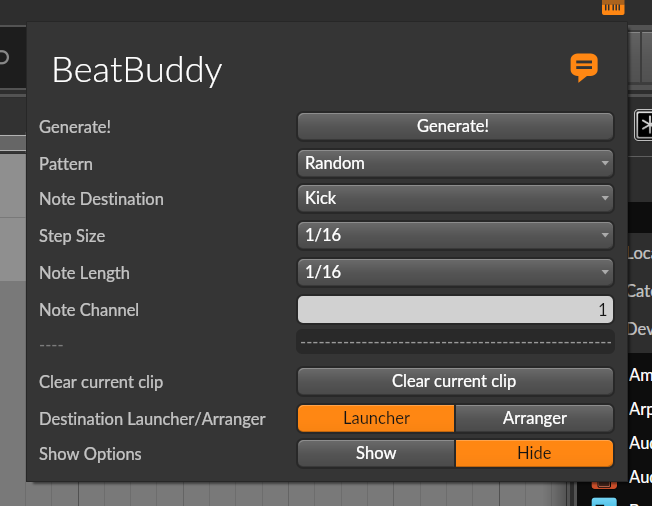
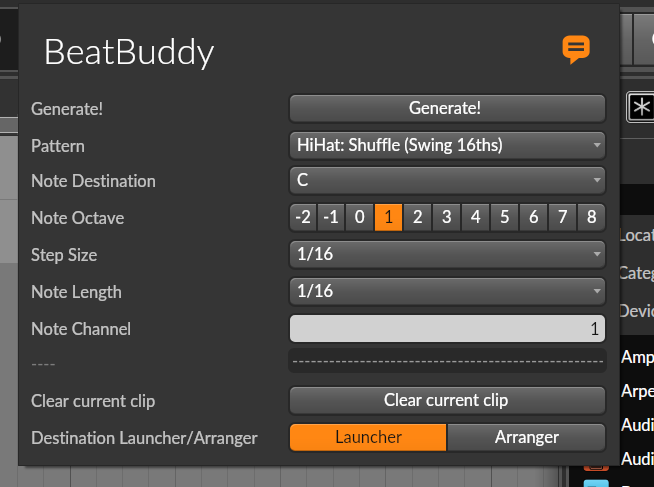
0.52

diff --git a/src/main/java/com/centomila/BeatBuddyExtension.java b/src/main/java/com/centomila/BeatBuddyExtension.java
@@ -12,7 +12,7 @@ import com.bitwig.extension.controller.api.EnumValue;
 import com.bitwig.extension.controller.api.SettableRangedValue;
 import com.bitwig.extension.controller.api.Setting;
 
-public class BeatBuddyExtension extends ControllerExtension implements DrumsNotes {
+public class BeatBuddyExtension extends ControllerExtension {
    private Application application;
    private Clip cursorClip;
    private Clip arrangerClip;
@@ -21,25 +21,12 @@ public class BeatBuddyExtension extends ControllerExtension implements DrumsNote
    private Setting noteLengthSetting; // How long each note should be
    private Setting stepSizSetting;
    private Setting noteDestinationSetting;
+   private Setting noteOctaveSetting;
    private Setting noteChannelSetting;
    private Setting toggleLauncherArrangerSetting;
-   // settings for separate notes
-   private String noteUnitSetting = "MIDI Note";
-   private Setting toggleNoteFields;
-   private Setting noteKickSetting;
-   private Setting noteSnareSetting;
-   private Setting noteRimshotSetting;
-   private Setting noteClosedHiHatSetting;
-   private Setting noteOpenHiHatSetting;
-   private Setting noteCymbalSetting;
-   private Setting noteTom1Setting;
-   private Setting noteTom2Setting;
-   private Setting noteTom3Setting;
-   private Setting noteTom4Setting;
-   private Setting notePerc1Setting;
-   private Setting notePerc2Setting;
-   private Setting notePerc3Setting;
-   private Setting notePerc4Setting;
+   private String currentNoteAsString;
+   private int currentOctaveAsInt;
+
 
    private Setting spacerSetting;
 
@@ -69,17 +56,30 @@ public class BeatBuddyExtension extends ControllerExtension implements DrumsNote
             "Random");
 
       // Pattern destination dropdown
-      String[] NOTEDESTINATION_OPTIONS = { "Kick", "Snare", "Rimshot", "Hi-Hat Closed", "Hi-Hat Open", "Cymbal",
-            "Tom 1", "Tom 2",
-            "Tom 3", "Tom 4", "Percussion 1", "Percussion 2", "Percussion 3", "Percussion 4" };
+      String[] NOTEDESTINATION_OPTIONS = Utils.NOTE_NAMES;
       noteDestinationSetting = (Setting) documentState.getEnumSetting("Note Destination", "Clip",
             NOTEDESTINATION_OPTIONS,
             NOTEDESTINATION_OPTIONS[0]);
 
       ((EnumValue) noteDestinationSetting).addValueObserver(newValue -> {
-         getHost().showPopupNotification(
-               newValue + ": " + Utils.getNoteNameAsString(getCurrentNoteDestinationAsInt()));
+         currentNoteAsString = newValue;
+         getCurrentNoteDestinationAsInt();
       });
+
+      // Pattern destination dropdown
+      String[] OCTAVEDESTINATION_OPTIONS = Arrays.stream(Utils.NOTE_OCTAVES)
+            .mapToObj(String::valueOf)
+            .toArray(String[]::new);
+      noteOctaveSetting = (Setting) documentState.getEnumSetting("Note Octave", "Clip",
+            OCTAVEDESTINATION_OPTIONS,
+            OCTAVEDESTINATION_OPTIONS[3]);
+
+      ((EnumValue) noteOctaveSetting).addValueObserver(newValue -> {
+         currentOctaveAsInt = Integer.parseInt(newValue);
+         getCurrentNoteDestinationAsInt();
+      });
+
+
 
       // Pattern step size
       final String[] STEPSIZE_OPTIONS = new String[] { "1/2", "1/4", "1/8", "1/8", "1/16", "1/32", "1/32", "1/64",
@@ -106,7 +106,7 @@ public class BeatBuddyExtension extends ControllerExtension implements DrumsNote
       // Initialize launcher/arranger toggle
       initToggleLauncherArrangerSetting();
       // Initialize note fields
-      initAllNoteFieldsSettings();
+      // initAllNoteFieldsSettings();
       // Show a notification to confirm initialization
       host.showPopupNotification("BeatBuddy Initialized");
 
@@ -120,73 +120,6 @@ public class BeatBuddyExtension extends ControllerExtension implements DrumsNote
             TOGGLE_LAUNCHER_ARRANGER_OPTIONS[0]);
    }
 
-   /**
-    * Initialize all note fields in the UI, including the toggle to show/hide and
-    * the individual note fields.
-    */
-   private void initAllNoteFieldsSettings() {
-      // Note destination options
-      // Toggle note field
-      final String[] TOGGLE_NOTE_OPTIONS = new String[] { "Show", "Hide" };
-      toggleNoteFields = (Setting) documentState.getEnumSetting("Show Options", "Notes", TOGGLE_NOTE_OPTIONS,
-            TOGGLE_NOTE_OPTIONS[0]);
-      // Fields for note destination
-
-      noteKickSetting = (Setting) documentState.getNumberSetting("Kick", "Notes", 0, 128, 1, noteUnitSetting, 36);
-      noteSnareSetting = (Setting) documentState.getNumberSetting("Snare", "Notes", 0, 128, 1, noteUnitSetting, 37);
-      noteRimshotSetting = (Setting) documentState.getNumberSetting("Rimshot", "Notes", 0, 128, 1, noteUnitSetting, 38);
-      noteClosedHiHatSetting = (Setting) documentState.getNumberSetting("Hi-Hat Open", "Notes", 0, 128, 1,
-            noteUnitSetting, 42);
-      noteOpenHiHatSetting = (Setting) documentState.getNumberSetting("Hi-Hat Closed", "Notes", 0, 128, 1,
-            noteUnitSetting, 46);
-      noteCymbalSetting = (Setting) documentState.getNumberSetting("Cymbal", "Notes", 0, 128, 1, noteUnitSetting, 59);
-      noteTom1Setting = (Setting) documentState.getNumberSetting("Tom 1", "Notes", 0, 128, 1, noteUnitSetting, 47);
-      noteTom2Setting = (Setting) documentState.getNumberSetting("Tom 2", "Notes", 0, 128, 1, noteUnitSetting, 53);
-      noteTom3Setting = (Setting) documentState.getNumberSetting("Tom 3", "Notes", 0, 128, 1, noteUnitSetting, 54);
-      noteTom4Setting = (Setting) documentState.getNumberSetting("Tom 4", "Notes", 0, 128, 1, noteUnitSetting, 55);
-      notePerc1Setting = (Setting) documentState.getNumberSetting("Percussion 1", "Notes", 0, 128, 1, noteUnitSetting,
-            38);
-      notePerc2Setting = (Setting) documentState.getNumberSetting("Percussion 2", "Notes", 0, 128, 1, noteUnitSetting,
-            40);
-      notePerc3Setting = (Setting) documentState.getNumberSetting("Percussion 3", "Notes", 0, 128, 1, noteUnitSetting,
-            41);
-      notePerc4Setting = (Setting) documentState.getNumberSetting("Percussion 4", "Notes", 0, 128, 1, noteUnitSetting,
-            56);
-
-      // Show/Hide note fields
-      Setting[] allNoteFields = { noteKickSetting, noteSnareSetting, noteRimshotSetting, noteClosedHiHatSetting,
-            noteOpenHiHatSetting, noteCymbalSetting,
-            noteTom1Setting, noteTom2Setting,
-            noteTom3Setting, noteTom4Setting, notePerc1Setting, notePerc2Setting, notePerc3Setting, notePerc4Setting };
-
-      for (Setting noteSetting : allNoteFields) {
-         ((SettableRangedValue) noteSetting).addValueObserver(newValue -> {
-            getHost().showPopupNotification(
-                  noteSetting.getLabel() + ": " + Utils.getNoteNameAsString(getNoteValue(noteSetting)));
-         });
-      }
-
-      ((EnumValue) toggleNoteFields).addValueObserver((String newValue) -> {
-         for (Setting noteField : allNoteFields) {
-
-            if (newValue.equals("Show")) {
-               noteField.show();
-            } else {
-               noteField.hide();
-            }
-         }
-      });
-   }
-
-   /**
-    * Returns the MIDI note value of the given note setting.
-    * 
-    * @param noteSetting The note setting to get the value of.
-    * @return The MIDI note value of the given note setting.
-    */
-   private int getNoteValue(Setting noteSetting) {
-      return (int) Math.round(((SettableRangedValue) noteSetting).getRaw());
-   }
 
    /**
     * Returns the MIDI note value of the currently selected note destination.
@@ -203,55 +136,8 @@ public class BeatBuddyExtension extends ControllerExtension implements DrumsNote
     */
 
    private int getCurrentNoteDestinationAsInt() {
-      String currentNoteString = ((EnumValue) noteDestinationSetting).get();
-      int currentValueInt = 0;
-
-      switch (currentNoteString) {
-         case "Kick":
-            currentValueInt = getNoteValue(noteKickSetting);
-            break;
-         case "Snare":
-            currentValueInt = getNoteValue(noteSnareSetting);
-            break;
-         case "Hi-Hat Closed":
-            currentValueInt = getNoteValue(noteClosedHiHatSetting);
-            break;
-         case "Hi-Hat Open":
-            currentValueInt = getNoteValue(noteOpenHiHatSetting);
-            break;
-         case "Cymbal":
-            currentValueInt = getNoteValue(noteCymbalSetting);
-            break;
-         case "Tom 1":
-            currentValueInt = getNoteValue(noteTom1Setting);
-            break;
-         case "Tom 2":
-            currentValueInt = getNoteValue(noteTom2Setting);
-            break;
-         case "Tom 3":
-            currentValueInt = getNoteValue(noteTom3Setting);
-            break;
-         case "Tom 4":
-            currentValueInt = getNoteValue(noteTom4Setting);
-            break;
-         case "Percussion 1":
-            currentValueInt = getNoteValue(notePerc1Setting);
-            break;
-         case "Percussion 2":
-            currentValueInt = getNoteValue(notePerc2Setting);
-            break;
-         case "Percussion 3":
-            currentValueInt = getNoteValue(notePerc3Setting);
-            break;
-         case "Percussion 4":
-            currentValueInt = getNoteValue(notePerc4Setting);
-            break;
-         default:
-            getHost().showPopupNotification("Unknown note type: " + currentNoteString);
-            break;
-      }
-
-      getHost().showPopupNotification("Selected Note: " + currentNoteString);
+      getHost().showPopupNotification("Selected Note: " + currentNoteAsString + currentOctaveAsInt);
+      int currentValueInt = Utils.getMIDINoteNumberFromStringAndOctave(currentNoteAsString, currentOctaveAsInt);
       return currentValueInt;
    }
 

diff --git a/src/main/java/com/centomila/Utils.java b/src/main/java/com/centomila/Utils.java
@@ -2,6 +2,11 @@ package com.centomila;
 
 public class Utils {
 
+    // Constant with all noteNames
+    public static String[] NOTE_NAMES = { "C", "C#", "D", "D#", "E", "F", "F#", "G", "G#", "A", "A#", "B" };
+    // Constant with all Octaves
+    public static int[] NOTE_OCTAVES = { -2, -1, 0, 1, 2, 3, 4, 5, 6, 7, 8 };
+
     /**
      * Returns a string representation of a MIDI note number as a note name and octave.
      * Example: 60 is returned as "C4"
@@ -9,10 +14,23 @@ public class Utils {
      * @return a string representation of the MIDI note number
      */
     public static String getNoteNameAsString(int midiNote) {
-        String[] noteNames = { "C", "C#", "D", "D#", "E", "F", "F#", "G", "G#", "A", "A#", "B" };
+        String[] noteNames = NOTE_NAMES;
         int octave = (midiNote / 12) - 2;
         String note = noteNames[midiNote % 12];
         return note + octave;
+    }
+
+    
+    public static int getMIDINoteNumberFromStringAndOctave(String noteName, int octave) {
+        String[] noteNames = NOTE_NAMES;
+        int note = 0;
+        for (int i = 0; i < noteNames.length; i++) {
+            if (noteNames[i].equals(noteName)) {
+                note = i;
+                break;
+            }
+        }
+        return (octave + 2) * 12 + note;
     }
 
 }

diff --git a/src/main/java/com/centomila/BeatBuddyExtensionDefinition.java b/src/main/java/com/centomila/BeatBuddyExtensionDefinition.java
@@ -29,7 +29,7 @@ public class BeatBuddyExtensionDefinition extends ControllerExtensionDefinition
    @Override
    public String getVersion()
    {
-      return "0.5";
+      return "0.52";
    }
 
    @Override

diff --git a/readme.md b/readme.md
@@ -16,7 +16,10 @@ Super alpha version!
 
 # 📋 Changelog:
 
-**0.5**
+**0.52**
+- [X] Replaced the old method to select note destination with a new method to select note destination based on Note Name+Octave
+
+0.5
 - [X] Support for multiple step sizes and note lengths in the pattern!
   - 1/2  |  1/4  |  1/8  |  1/8  |  1/16  |  1/32  |  1/32  |  1/64  |  1/128
   - 1/2 - 3t  |  1/4 - 3t  | 1/8 - 3t  |  1/16 - 3t  |  1/32 - 3t  |  1/32 - 3t  |  1/64 - 3t  |  1/128 - 3t
@@ -42,7 +45,6 @@ Super alpha version!
 
 - [ ] Support for multiple length patterns
 - [ ] MOAR PATTERNS!
-- [ ] Selector for multilane patterns
 - [ ] Settings for random pattern.
 - [ ] Option to Remove notes in excess if the user generate a pattern longer than the clip
 - [ ] Automatically change the note length based on the step size (not the other way around)
